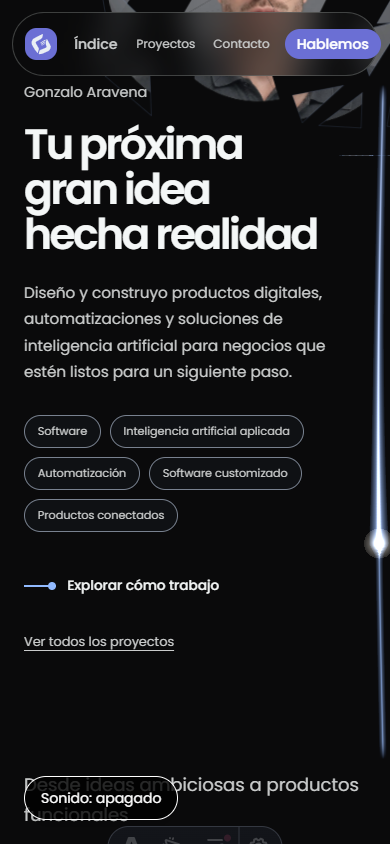
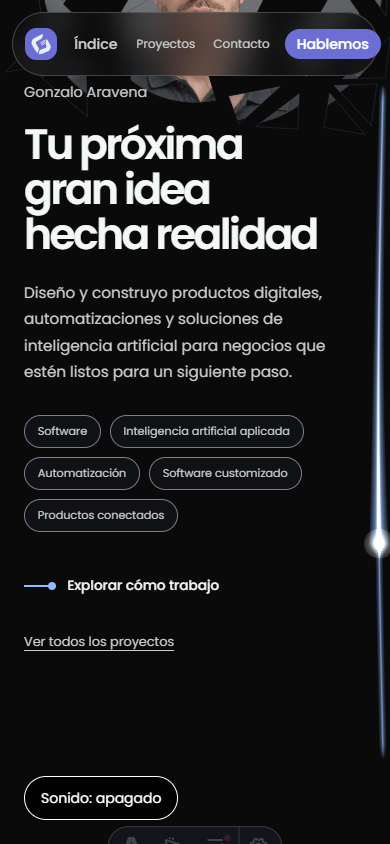
fix: fragmentos continuos, retrato móvil centrado y salida del manifiesto

diff --git a/src/components/journey/manifesto.ts b/src/components/journey/manifesto.ts
@@ -16,67 +16,47 @@ function mountManifesto() {
       scrollTrigger: {
         trigger: root,
         start: "top 65%",
-        end: "bottom 90%",
-        scrub: 0.8,
+        end: "top 10%",
+        scrub: 0.45,
         invalidateOnRefresh: true,
       },
     })
     root
       .querySelectorAll<HTMLElement>("[data-manifesto-phrase]")
       .forEach((phrase, index) => {
-        const split = SplitText.create(phrase, {
-          type: "words,chars",
-          aria: "auto",
-        })
+        const split = SplitText.create(phrase, { type: "words", aria: "auto" })
         splits.push(split)
-        // Tres gestos vinculados al significado. El scroll permite deshacerlos.
-        if (index === 0) {
-          timeline.from(
-            split.chars,
-            {
-              x: (i) => Math.sin(i * 2.399) * 36,
-              y: (i) => Math.cos(i * 2.399) * 26,
-              rotation: (i) => Math.sin(i * 2.399) * 18,
-              opacity: 0.12,
-              stagger: { amount: 0.3, from: "center" },
-              duration: 1,
-              ease: "power2.inOut",
-            },
-            index * 0.95
-          )
-        } else if (index === 1) {
-          timeline.from(
-            split.words,
-            {
-              rotationX: -75,
-              yPercent: 65,
-              opacity: 0.12,
-              transformOrigin: "50% 100%",
-              stagger: 0.15,
-              duration: 1,
-              ease: "power2.inOut",
-            },
-            index * 0.95
-          )
-        } else {
-          timeline.from(
-            split.chars,
-            {
-              yPercent: 105,
-              scaleY: 0.6,
-              opacity: 0.12,
-              transformOrigin: "50% 100%",
-              stagger: 0.025,
-              duration: 0.7,
-              ease: "power2.inOut",
-            },
-            index * 0.95
-          )
-        }
+        timeline.from(
+          split.words,
+          {
+            rotationX: -75,
+            yPercent: 65,
+            opacity: 0.12,
+            transformOrigin: "50% 100%",
+            stagger: 0.15,
+            duration: 1,
+            ease: "power2.inOut",
+          },
+          index * 0.7
+        )
       })
+    // Salida sincronizada sin retardo: el DOM deja el escenario antes de que
+    // el handoff global empiece a mostrar Vibo, incluso en un scroll rápido.
+    const exit = gsap.to(root.querySelector(".manifesto-copy"), {
+      opacity: 0,
+      ease: "none",
+      scrollTrigger: {
+        trigger: root,
+        start: "bottom 95%",
+        end: "bottom 78%",
+        scrub: true,
+      },
+    })
     return () => {
       timeline.scrollTrigger?.kill()
       timeline.kill()
+      exit.scrollTrigger?.kill()
+      exit.revert()
       splits.forEach((split) => split.revert())
     }
   })

diff --git a/src/components/journey/heroPortrait.ts b/src/components/journey/heroPortrait.ts
@@ -146,6 +146,9 @@ function mountPortrait(figure: HTMLElement): () => void {
   let shards: Shard[] = []
   let size = 0
   let dpr = 1
+  let canvasWidth = 0
+  let canvasHeight = 0
+  let originX = 0
   let visible = true
   let dirty = true
   let disposed = false
@@ -156,8 +159,17 @@ function mountPortrait(figure: HTMLElement): () => void {
     const rect = figure.getBoundingClientRect()
     size = Math.max(1, Math.round(rect.width))
     dpr = Math.min(window.devicePixelRatio || 1, 2)
-    canvas.width = Math.round(size * 1.5 * dpr)
-    canvas.height = Math.round(size * 1.5 * dpr)
+    // La superficie cubre todo el ancho visible, no una caja alrededor de la
+    // foto. Así los fragmentos laterales solo encuentran el borde de pantalla.
+    canvasWidth = document.documentElement.clientWidth
+    canvasHeight = size * 3
+    originX = rect.left
+    canvas.width = Math.round(canvasWidth * dpr)
+    canvas.height = Math.round(canvasHeight * dpr)
+    canvas.style.width = `${canvasWidth}px`
+    canvas.style.height = `${canvasHeight}px`
+    canvas.style.left = `${-originX}px`
+    canvas.style.top = `${-size}px`
     const coarse = window.matchMedia("(pointer: coarse)").matches
     shards = buildShards(image, coarse || size < 320 ? 5 : 7)
     dirty = true
@@ -187,8 +199,8 @@ function mountPortrait(figure: HTMLElement): () => void {
     const s = size
     const t = gsap.ticker.time - timeOrigin
     ctx.setTransform(dpr, 0, 0, dpr, 0, 0)
-    ctx.clearRect(0, 0, s * 1.5, s * 1.5)
-    ctx.translate(s * 0.25, s * 0.25)
+    ctx.clearRect(0, 0, canvasWidth, canvasHeight)
+    ctx.translate(originX, s)
 
     // Las juntas siguen visibles en reposo: el retrato conserva su identidad
     // fragmentada antes de que el scroll o el cursor separen más las piezas.
@@ -331,6 +343,7 @@ function mountPortrait(figure: HTMLElement): () => void {
   )
   visibility.observe(figure)
   window.addEventListener("pointermove", onPointer, { passive: true })
+  window.addEventListener("resize", resize, { passive: true })
   document.documentElement.addEventListener("pointerleave", onLeave)
 
   if (image.complete && image.naturalWidth > 0) ready()
@@ -343,6 +356,7 @@ function mountPortrait(figure: HTMLElement): () => void {
     resizeObserver.disconnect()
     visibility.disconnect()
     window.removeEventListener("pointermove", onPointer)
+    window.removeEventListener("resize", resize)
     document.documentElement.removeEventListener("pointerleave", onLeave)
     image.removeEventListener("load", ready)
     delete figure.dataset.portraitReady

diff --git a/docs/plan/evidencias/T-A43/README.md b/docs/plan/evidencias/T-A43/README.md
@@ -4,20 +4,20 @@ Pedido humano del 23/10/2026. Rama `t/A43-hero-retrato-manifiesto`.
 
 ## Resultado
 
-- Retrato existente de 44.912 bytes, fragmentado con canvas 2D: hasta 98 triángulos desktop / 50 táctil, menos fragmentos transparentes descartados. Núcleo facial compacto y contorno con dispersión radial marcada, especialmente lateral. Ensamblado inicial, dispersión reversible por scroll y atracción local al cursor. Canvas ampliado un 25 % por lado para alojar fragmentos exteriores.
-- Composición en dos columnas desktop y retrato superior mobile; chips y jerarquía tipográfica renovados.
+- Retrato existente de 44.912 bytes, fragmentado con canvas 2D: hasta 98 triángulos desktop / 50 táctil, menos fragmentos transparentes descartados. Núcleo facial compacto y contorno con dispersión radial marcada, especialmente lateral. Ensamblado inicial, dispersión reversible por scroll y atracción local al cursor. Canvas con todo el ancho del viewport y altura triple al retrato para alojar la dispersión sin recortes laterales del contenedor. Recalcula tamaño y origen al redimensionar.
+- Composición en dos columnas desktop y retrato superior centrado en mobile; chips y jerarquía tipográfica renovados.
 - Bloques de lectura totalmente transparentes, sin fondos ni sombras. El hilo conserva su renderer global: una curva editorial en el espacio libre a la derecha evita el texto. La curva también se aplica al destino del handoff para mantener continuidad al entrar en cada capítulo.
-- GSAP + SplitText + ScrollTrigger: ensamblado de caracteres, despliegue de palabras y construcción escalonada. Una única timeline con scrub de 0,8 s y capítulo de 190svh mantiene el bloque sticky mientras avanza la secuencia; el modo reducido vuelve al flujo normal sin altura extra. Sin dependencias nuevas. Se elimina “Así toma forma en Vibo”.
+- GSAP + SplitText + ScrollTrigger: las tres frases comparten el despliegue por palabras de “Diseño experiencias”. Timeline con scrub de 0,45 s, secuencia entre top 65 % y top 10 % y capítulo de 100svh en flujo normal, sin sticky. La salida del texto acaba en bottom 78 %, antes del handoff global a Vibo (0,86 de progreso); el modo reducido conserva el texto estático. Sin dependencias nuevas. Se elimina “Así toma forma en Vibo”.
 - Movimiento reducido: imagen HTML y frases sin dividir, sin listeners del retrato. Limpieza al navegar y restauración al volver.
 
 ## Verificación
 
 `npm run check`: lint, typecheck, build y presupuestos de assets. Build conserva el aviso de chunks mayores a 500 kB.
 
-`node docs/plan/evidencias/T-A43/verify.mjs` (servidor local en puerto 3010 y Chrome instalado): capturas 1440×900 y 390×844; scroll, magnetismo desktop, ausencia de overflow horizontal y comprobación de fondos transparentes sin sombras, navegación home → proyectos → atrás, cambio dinámico de movimiento reducido y ausencia del enlace eliminado. Cero errores JavaScript en ambos tamaños. Resultados en `checks.json`.
+`node docs/plan/evidencias/T-A43/verify.mjs` (servidor local en puerto 3010 y Chrome instalado): capturas 1440×900 y 390×844; scroll, magnetismo desktop, ausencia de overflow horizontal, retrato centrado en móvil, canvas del ancho del viewport, texto retirado al entrar en Vibo y comprobación de fondos transparentes sin sombras, navegación home → proyectos → atrás, cambio dinámico de movimiento reducido y ausencia del enlace eliminado. Cero errores JavaScript en ambos tamaños. Resultados en `checks.json`.
 
 Muestreo de 90 intervalos rAF durante scroll del hero: mediana 16,7 ms (~60 FPS), p95 16,8 ms en desktop y mobile emulado con CPU ×4. No equivale a un benchmark de dispositivos físicos ni certifica el recorrido completo. La pieza nueva es canvas 2D: no agrega draw calls o triángulos WebGL al Stage. Su imagen pesa 43,9 KiB en ambos tamaños; no agrega GLB ni texturas GPU.
 
-Las capturas `*-hero.png`, `*-fragments.png`, `*-phrase-{1,2,3}.png` y `*-reduced.png` corresponden al inicio, dispersión parcial, el avance de la secuencia de frases y la alternativa estática. El script recorre las posiciones reales del DOM para que sea reproducible en cada viewport.
+Las capturas `*-hero.png`, `*-fragments.png`, `*-phrase-{1,2,3}.png` y `*-handoff.png` y `*-reduced.png` corresponden al inicio, dispersión parcial, el avance de la secuencia de frases y la alternativa estática. El script recorre las posiciones reales del DOM para que sea reproducible en cada viewport.
 
 Pendiente: sensaciones en teléfono físico y aprobación estética humana. No se ejecutó QA multidispositivo del resto de escenas ni medición de fugas GPU (no se modificaron materiales, geometrías ni ciclo de montaje).

diff --git a/docs/plan/tablero.md b/docs/plan/tablero.md
@@ -119,7 +119,7 @@
 
 | ID | Tarea y criterio de terminado | Depende de | Zona | Estado |
 | --- | --- | --- | --- | --- |
-| T-A43 | Retrato triangular con scroll y magnetismo, pulido de cabecera/chips, protección del texto frente al hilo y tres animaciones GSAP del manifiesto; quitar enlace a Vibo. Pedido humano 2026-10-23, registrado listo y tomado en esta sesión. | T-A12, T-A13 | `src/components/journey/{Hero*,heroPortrait.ts,Manifesto*,manifesto.ts}`, `src/experience/thread/runtime.ts` (recorrido espacial del hilo, ampliado por feedback humano), evidencia y tablero | en revisión (rama `t/A43-hero-retrato-manifiesto`; feedback aplicado: núcleo compacto, laterales dispersos, hilo visible sin fondos y timeline prolongada; evidencia `evidencias/T-A43/`) |
+| T-A43 | Retrato triangular con scroll y magnetismo, pulido de cabecera/chips, protección del texto frente al hilo y tres animaciones GSAP del manifiesto; quitar enlace a Vibo. Pedido humano 2026-10-23, registrado listo y tomado en esta sesión. | T-A12, T-A13 | `src/components/journey/{Hero*,heroPortrait.ts,Manifesto*,manifesto.ts}`, `src/experience/thread/runtime.ts` (recorrido espacial del hilo, ampliado por feedback humano), evidencia y tablero | en revisión (rama `t/A43-hero-retrato-manifiesto`; feedback aplicado: retrato móvil centrado, fragmentos sin recorte lateral, hilo visible sin fondos, frases unificadas y salida antes de Vibo; evidencia `evidencias/T-A43/`) |
 
 ## Bloqueos y preguntas
 
